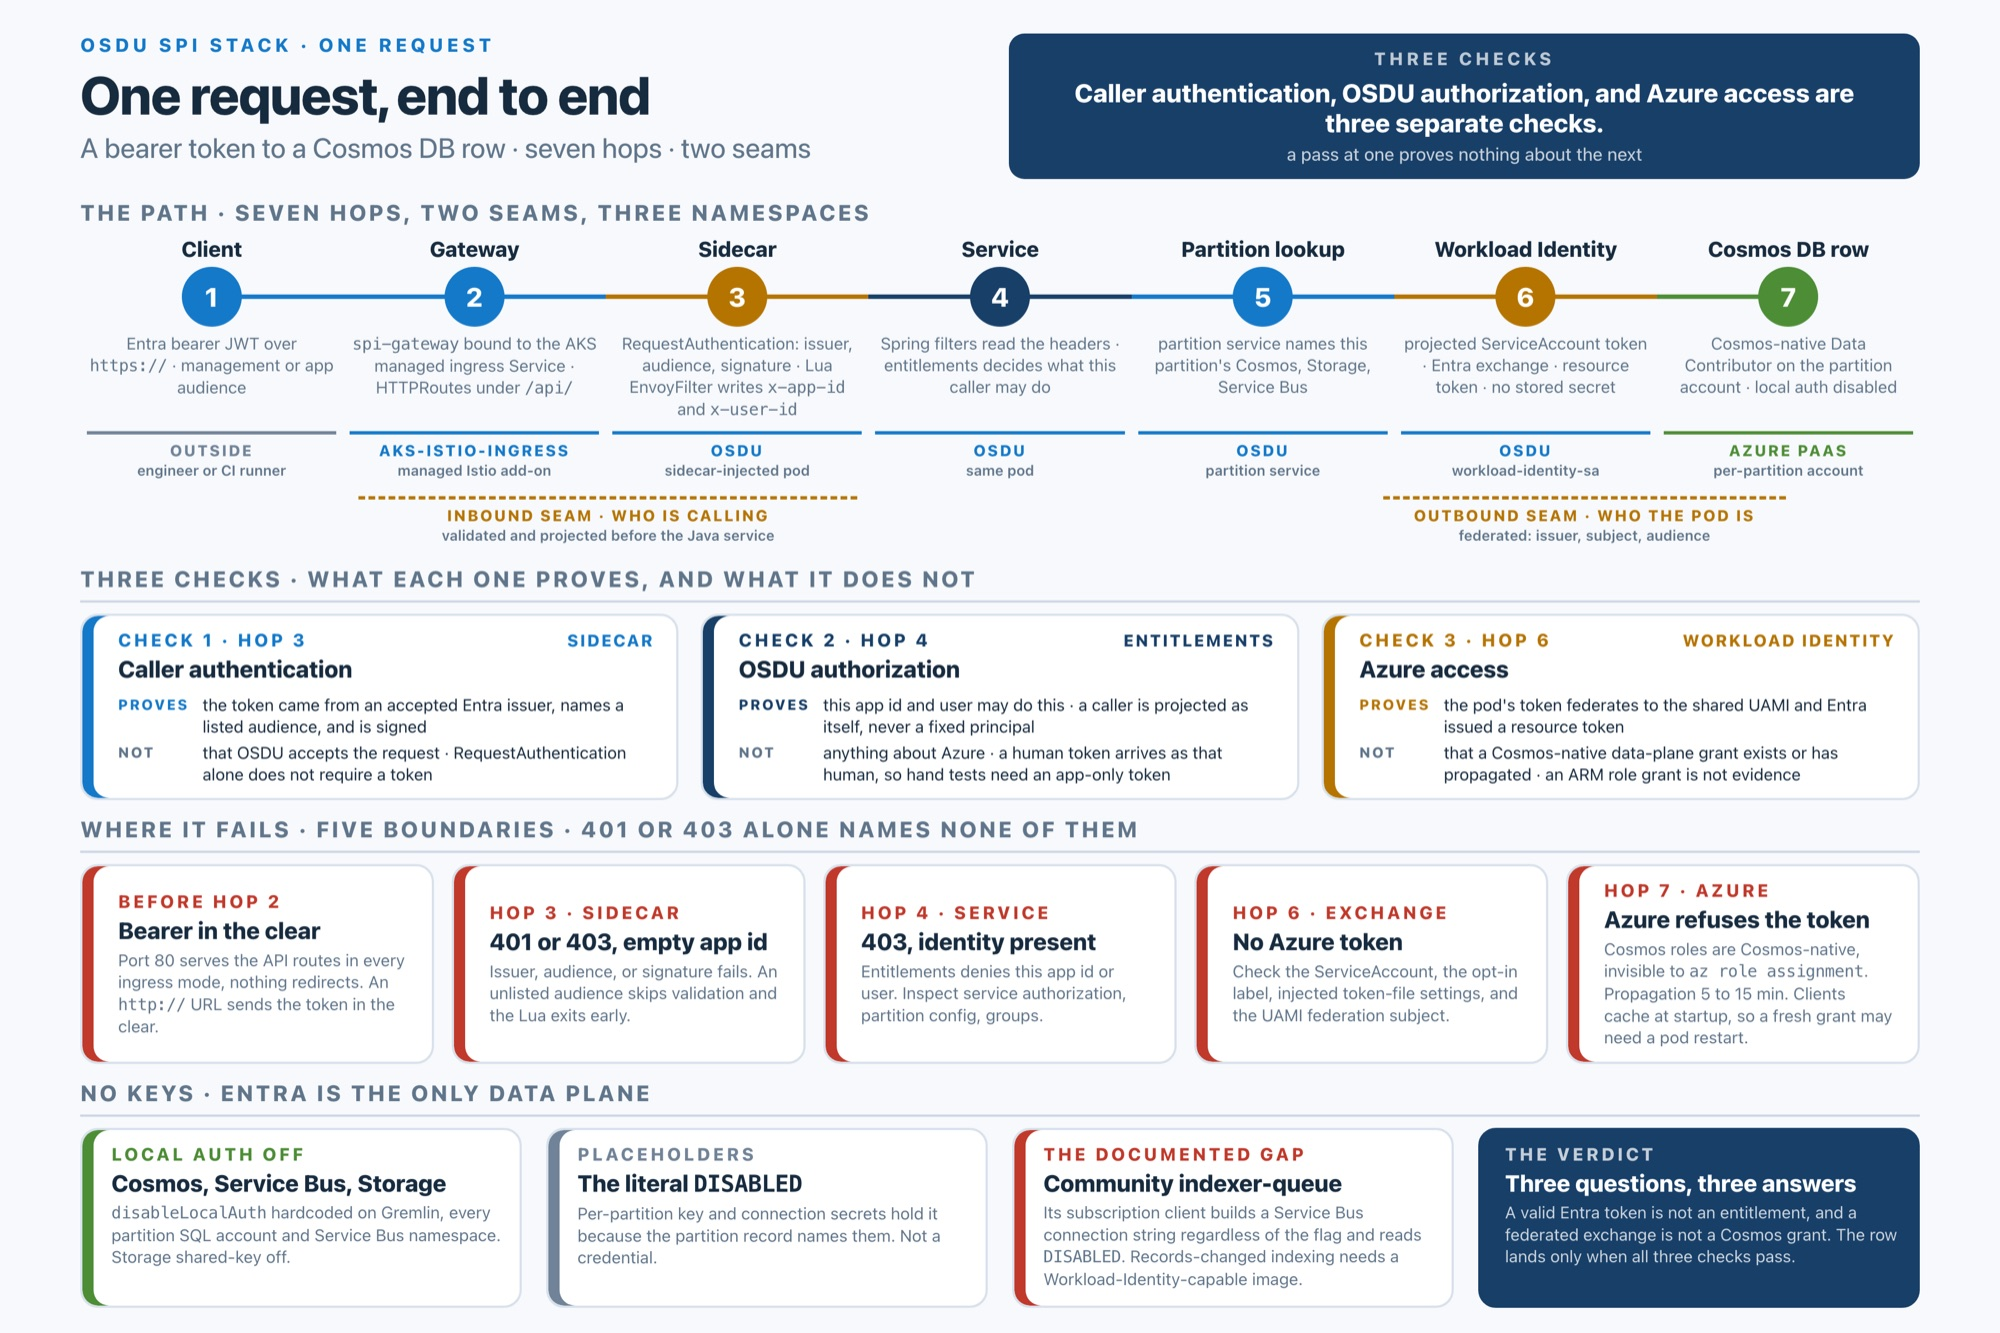
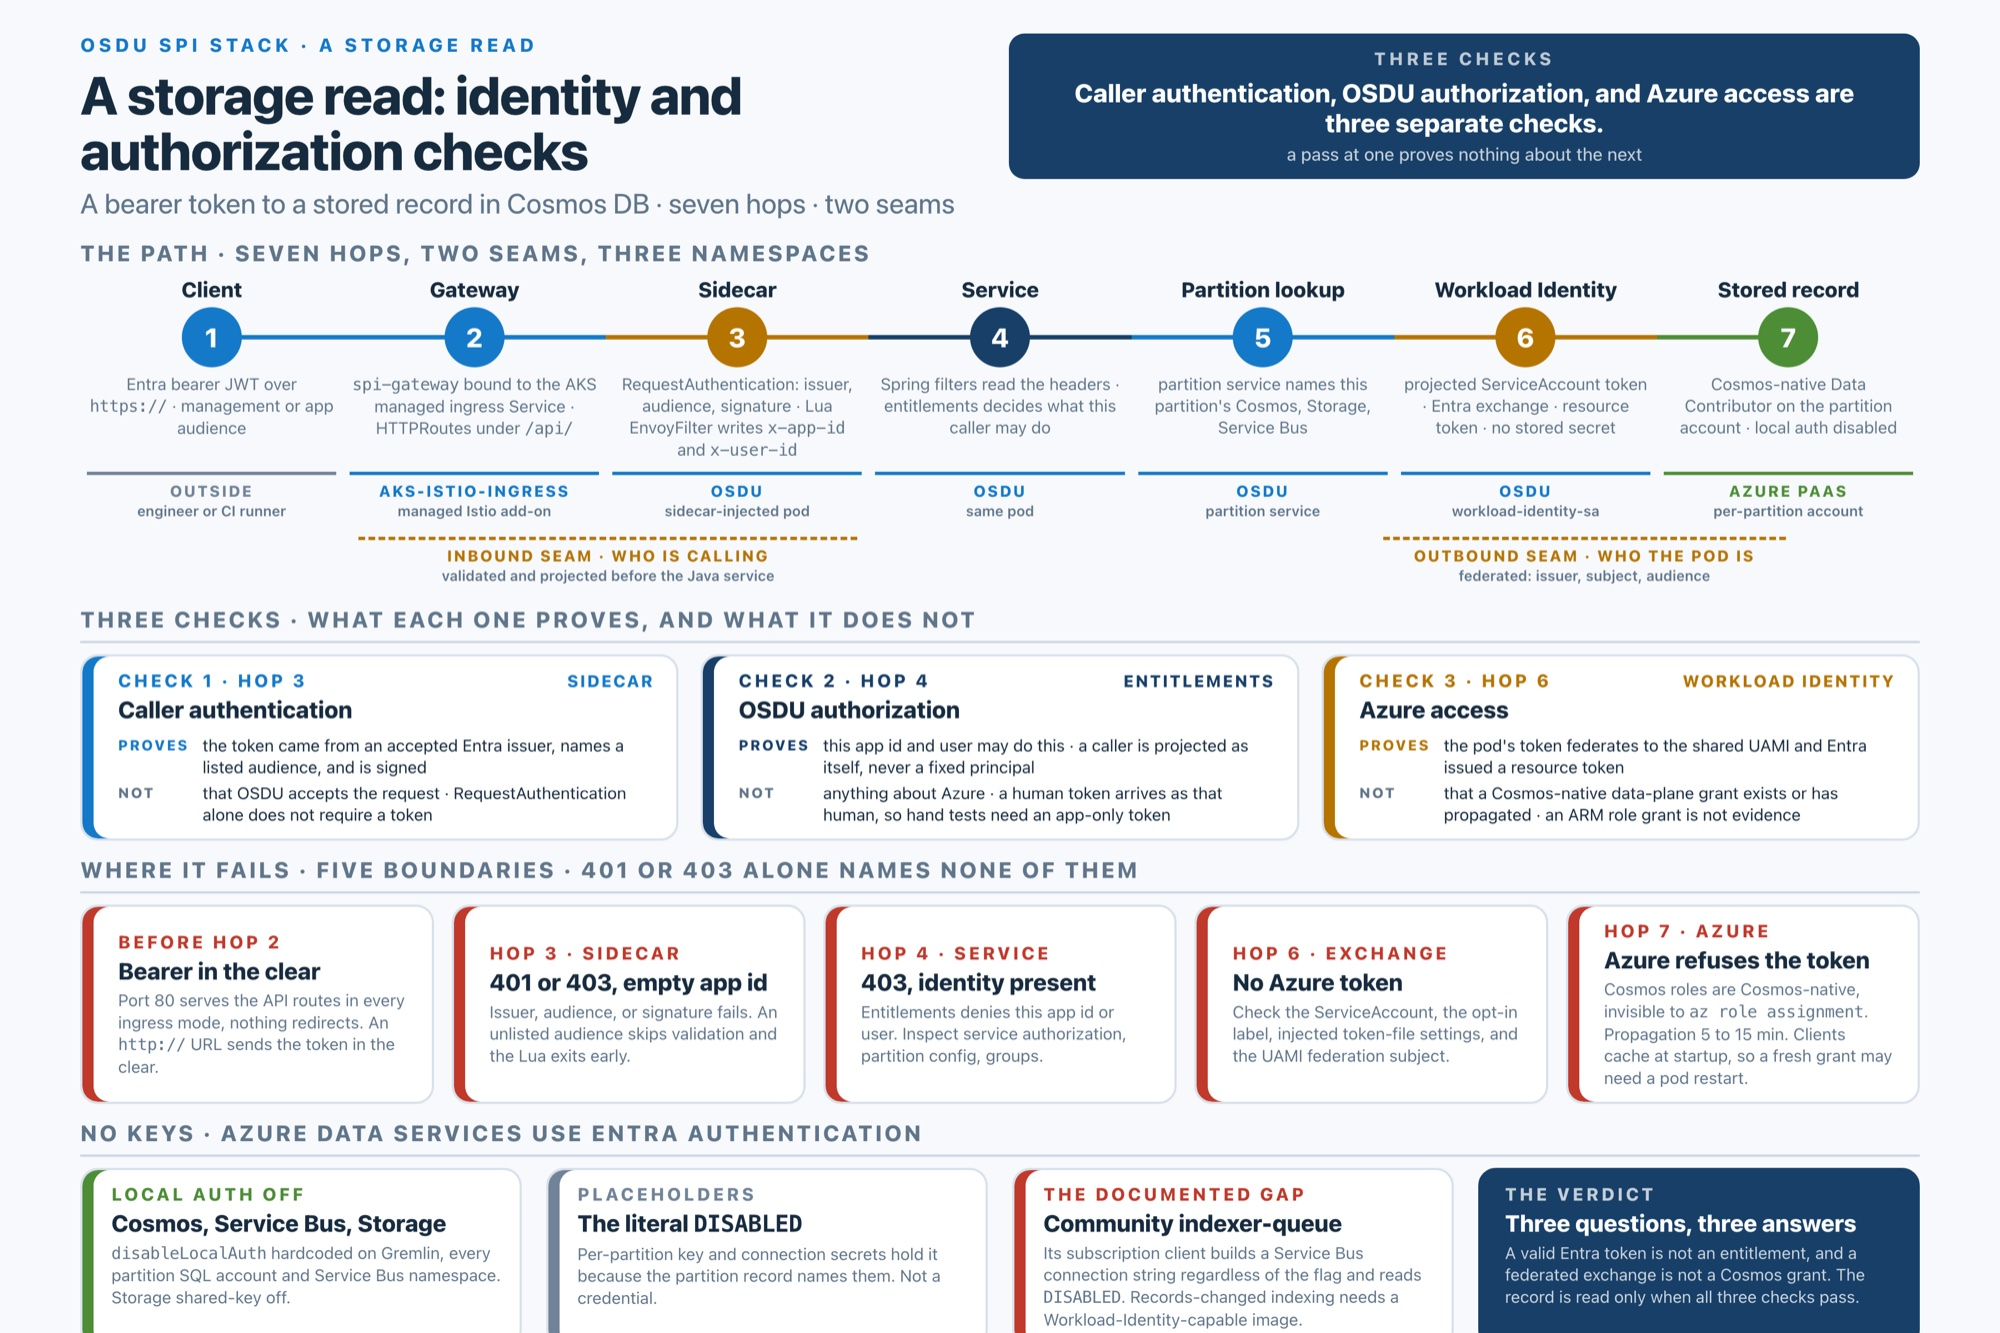
feat(posters): show poster origin above the lightbox image
Move the .poster-origin note into a new lightbox-status line and retitle
the inside-the-cluster and one-request posters

Changed region(s): [[0.031, 0.0308, 0.961, 1.0], [0.93, 0.6459, 0.961, 0.6767], [0.248, 0.9842, 0.279, 1.0]]

diff --git a/docs/reference/posters/one-request.html b/docs/reference/posters/one-request.html
@@ -157,9 +157,9 @@
 
   <div class="plate">
     <div>
-      <div class="kicker">OSDU SPI Stack · One request</div>
-      <h1 class="title">One request, end to end</h1>
-      <p class="subtitle">A bearer token to a Cosmos DB row · seven hops · two seams</p>
+      <div class="kicker">OSDU SPI Stack · A storage read</div>
+      <h1 class="title">A storage read: identity and authorization checks</h1>
+      <p class="subtitle">A bearer token to a stored record in Cosmos DB · seven hops · two seams</p>
     </div>
     <div class="purpose" style="max-width:820px;">
       <div class="p-label">Three checks</div>
@@ -191,7 +191,7 @@
       <div class="node k-amber"><div class="n-title">Workload Identity</div>
         <div class="n-mid"><div class="n-dot">6</div></div>
         <div class="n-sub">projected ServiceAccount token · Entra exchange · resource token · no stored secret</div></div>
-      <div class="node k-green"><div class="n-title">Cosmos DB row</div>
+      <div class="node k-green"><div class="n-title">Stored record</div>
         <div class="n-mid"><div class="n-dot">7</div></div>
         <div class="n-sub">Cosmos-native Data Contributor on the partition account · local auth disabled</div></div>
     </div>
@@ -273,7 +273,7 @@
 
   <!-- band 4: no keys + verdict -->
   <div class="band" style="gap:10px;">
-    <div class="band-label ruled">No keys · Entra is the only data plane</div>
+    <div class="band-label ruled">No keys · Azure data services use Entra authentication</div>
     <div class="cards">
       <div class="card k-green">
         <div class="eyebrow">Local auth off</div><div class="name-sm">Cosmos, Service Bus, Storage</div>
@@ -289,7 +289,7 @@
       </div>
       <div class="card solid">
         <div class="eyebrow">The verdict</div><div class="name-sm">Three questions, three answers</div>
-        <div class="fine">A valid Entra token is not an entitlement, and a federated exchange is not a Cosmos grant. The row lands only when all three checks pass.</div>
+        <div class="fine">A valid Entra token is not an entitlement, and a federated exchange is not a Cosmos grant. The record is read only when all three checks pass.</div>
       </div>
     </div>
   </div>

diff --git a/docs/reference/posters/inside-the-cluster.html b/docs/reference/posters/inside-the-cluster.html
@@ -2,7 +2,7 @@
 <html lang="en">
 <head>
 <meta charset="utf-8">
-<title>Inside the cluster · namespaces and the order things come up</title>
+<title>Inside the cluster · namespaces and rollout order</title>
 <style>
   :root{
     --bg:#f7f9fc; --ink:#172b3f; --muted:#60758a;
@@ -157,7 +157,7 @@
   <div class="plate">
     <div>
       <div class="kicker">OSDU SPI Stack · Inside the cluster</div>
-      <h1 class="title" style="font-size:46px;">Namespaces and the order things come up</h1>
+      <h1 class="title" style="font-size:46px;">Namespaces and rollout order</h1>
       <p class="subtitle">Three owners · one ladder of Kustomizations · two switches, not one</p>
     </div>
     <div class="purpose">

diff --git a/src/content/posters.js b/src/content/posters.js
@@ -227,7 +227,7 @@ export const nativeGuides = [
     id: 'timeline',
     title: 'One spi up, on the clock',
     summary:
-      'Observed component times overlap, so they do not add up to a total. The CLI exits while Flux is still working.',
+      'Observed component times overlap, so they do not add up to a total. The CLI exits while Flux is still working. Observed durations are from earlier centralus runs; the placement of unmeasured steps is illustrative.',
     appearsIn: { label: 'How it comes to life', href: '#bring-up/reconcile' },
     sources: ['lifecycle', 'schemaLoad'],
   },

diff --git a/src/main.js b/src/main.js
@@ -975,6 +975,12 @@ document.addEventListener('click', (event) => {
     : null;
   notes.innerHTML = source ? source.innerHTML : '';
   notes.hidden = !source;
+  // The poster's origin and status read before the image, not after it.
+  const status = document.getElementById('lightbox-status');
+  const origin = notes.querySelector('.poster-origin');
+  status.textContent = origin?.textContent ?? '';
+  status.hidden = !origin;
+  origin?.remove();
   document.querySelector('.lightbox-scroll').scrollTop = 0;
   lightbox.showModal();
 });

diff --git a/tests/content.test.js b/tests/content.test.js
@@ -2771,6 +2771,7 @@ test('a supplied poster beside a lesson opens in the lightbox with its notes', (
   );
   assert.match(frame, /<dialog id="lightbox"/);
   assert.match(frame, /id="lightbox-notes"/);
+  assert.match(frame, /id="lightbox-status"/);
   for (const poster of suppliedPosters) {
     const markup = posterInline(poster.id);
     assert.ok(

diff --git a/src/index.html b/src/index.html
@@ -243,6 +243,7 @@
         <button type="button" id="lightbox-close">Close ×</button>
       </div>
       <div class="lightbox-scroll">
+        <p id="lightbox-status" class="lightbox-status" hidden></p>
         <img id="lightbox-image" alt="" />
         <div id="lightbox-notes" class="lightbox-notes" hidden></div>
       </div>

diff --git a/src/styles/pages.css b/src/styles/pages.css
@@ -855,6 +855,14 @@ body[data-page='home'] .page > section > h2 {
 }
 .lightbox-notes li {
   margin: 0 0 4px;
+  break-inside: avoid;
+}
+.lightbox-status {
+  margin: 0;
+  padding: 8px 20px;
+  font-size: 13px;
+  color: var(--muted);
+  border-bottom: 1px solid var(--line);
 }
 
 /* Listen page */
